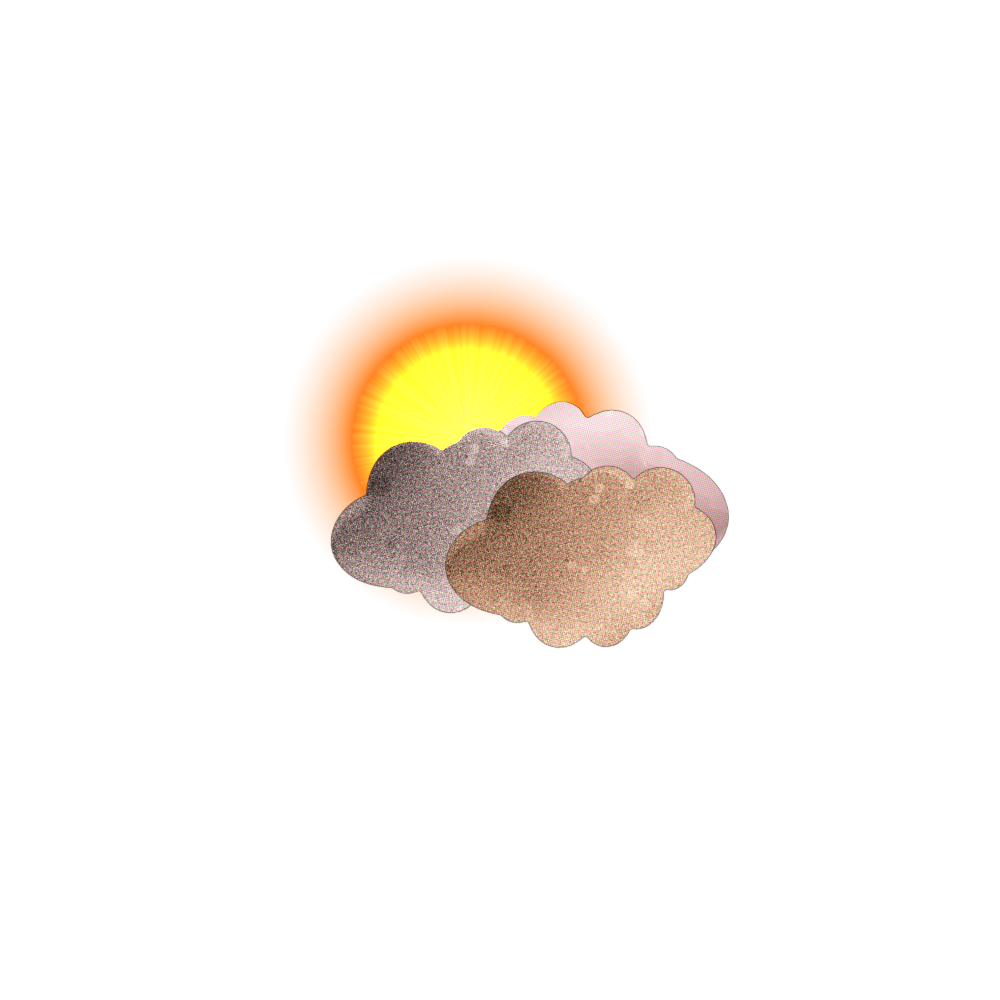
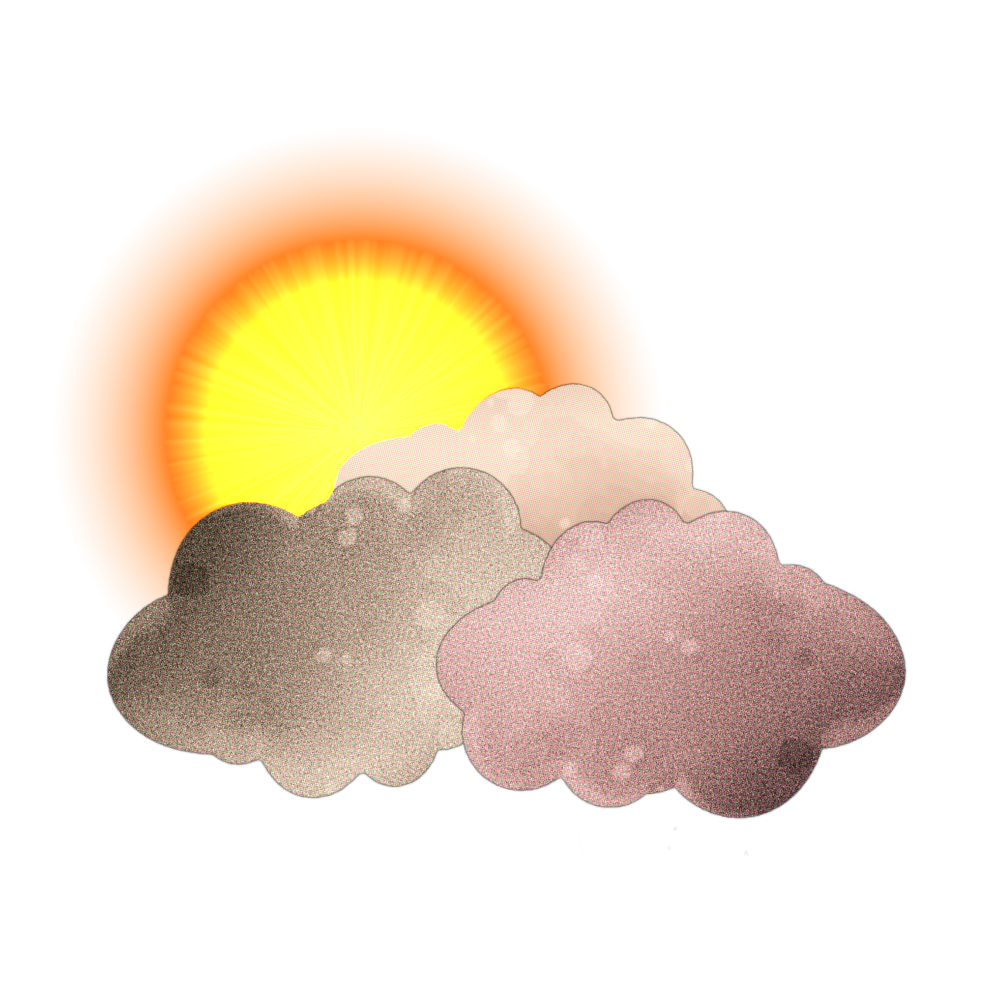
Inital setup for search bar functionality

diff --git a/frontend/src/components/SearchBar.tsx b/frontend/src/components/SearchBar.tsx
@@ -1,8 +1,37 @@
-import React from 'react';
+import React, {useEffect, useState} from 'react';
 
 const SearchBar: React.FC = () => {
+  const [query, setQuery] = useState(""); 
+  const [results, setResults] = useState(""); 
+
+  // Updates suburb options based on the users entry in search
+  useEffect(() => {
+    if (query.length < 2) return; 
+    
+    const timer = setTimeout(async () => {
+      const res = await fetch(`https://australiansuburbs.au/api/lookup_suburb?search=${query}`);
+      const data = await res.json();
+      setResults(data); 
+      console.log(results); 
+    }, 500);
+
+    return () => clearTimeout(timer); 
+  }, [query]); 
+
 return (
-  <input className='h-8 p-4 w-1/3 text-black rounded-4xl bg-white' placeholder='Search' type='search'/>
+<div className="relative w-1/3">
+  <span className="pointer-events-none absolute left-4 top-1/2 -translate-y-1/2 text-gray-400">
+    🔎
+  </span>
+  <input
+    type="search"
+    autoCapitalize='words'
+    placeholder="Search your Address, City or Postcode..."
+    className="h-8 w-full rounded-full bg-white pl-10 pr-4 text-black focus:outline-none"
+    value={query}
+    onChange={(e) => setQuery(e.target.value)}
+  />
+</div>
 )    
 }
 

diff --git a/frontend/src/components/Navbar.tsx b/frontend/src/components/Navbar.tsx
@@ -4,9 +4,9 @@ import SearchBar from './SearchBar';
 
 const Navbar: React.FC = () => {
   return (
-    <div className="flex m-4 justify-around items-center h-18 bg-[#4175c0] text-white rounded-xl">
+    <div className="flex m-2 justify-around items-center h-18 bg-[#4175c0] text-white rounded-xl">
       <div className='w-1/2 h-full flex justify-start items-center'>
-        <img src={NimbusLogo} alt="Nimbus Logo" className="h-24 w-24 mr-4"/>
+        <img src={NimbusLogo} alt="Nimbus Logo" className="h-20 w-20 mr-2"/>
         <h1 className="text-2xl font-extralight">Nimbus Weather</h1>
       </div>
       <SearchBar/>
